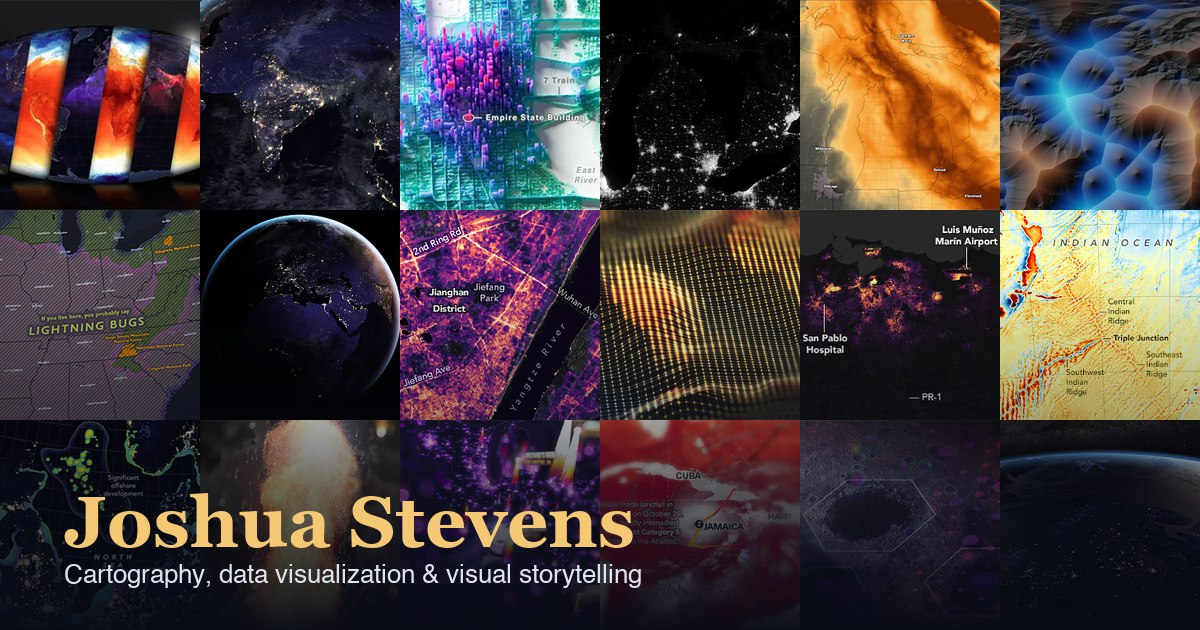
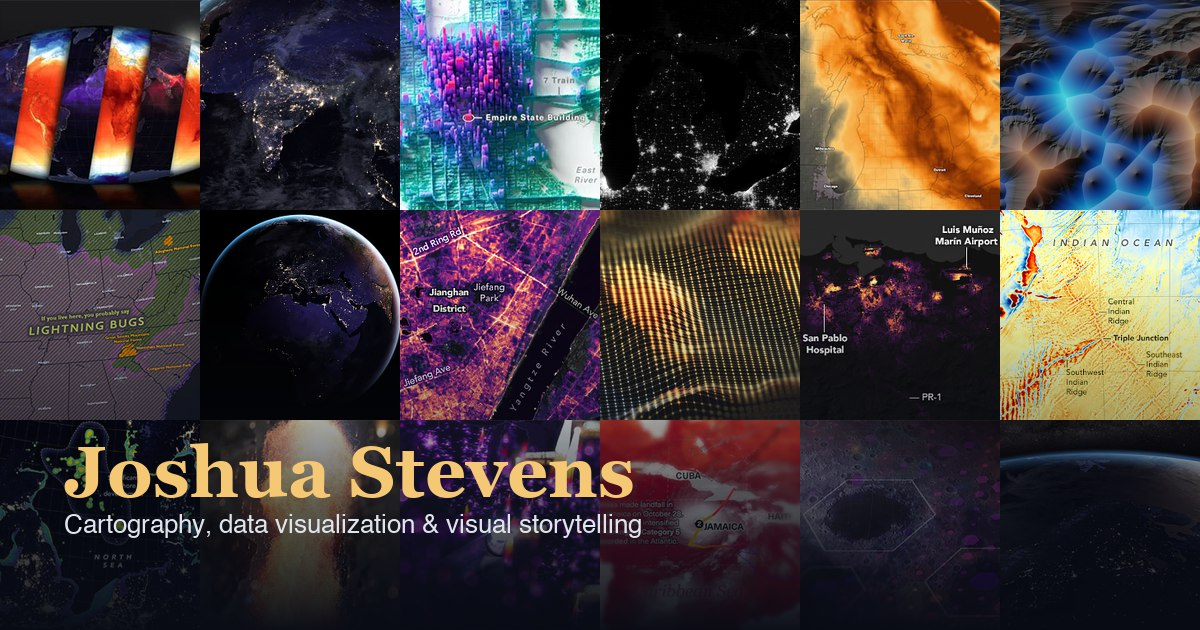
Updated pagination, large bigfoot map

Changed region(s): [[0.0308, 0.6937, 0.555, 0.8746], [0.0617, 0.9048, 0.555, 0.9349]]

diff --git a/visualization/squatch-watch-92-years-of-bigfoot-sightings-in-us-and-canada/index.html b/visualization/squatch-watch-92-years-of-bigfoot-sightings-in-us-and-canada/index.html
@@ -60,6 +60,10 @@
   
 
 <div class="article-mast">
+  <div class="article-mast-media" aria-hidden="true">
+    <img src="/images/js-bigfoot-sightings-large.png" alt="">
+  </div>
+  <div class="article-mast-scrim" aria-hidden="true"></div>
   <div class="container">
     <p class="kicker kicker-light kicker-center">Blog</p>
     <h1>&#39;Squatch Watch: 92 Years of Bigfoot Sightings in the US and Canada</h1><p class="post-date">September 17, 2013</p>
@@ -75,7 +79,7 @@
 <p>After crawling the data and converting it to a more convenient format, I mapped and graphed all 3,313 sightings that were reported from 1921 to 2013:</p>
 <div class="fullImage">
 <img src="/images/SasquatchSightings_Small1.png" />
-<p>Want a larger version? <a href="http://thumbnails.visually.netdna-cdn.com/SquatchWatch92YearsofBigfootSightingsintheUSandCanada_523b7482cc497.png">You got it</a>.</p>
+<p>Want a larger version? <a href="/images/js-bigfoot-sightings-large.png">You got it</a>.</p>
 </div>
 <div class="rightImage">
 <img src="/images/bf_bivariate.png" />

diff --git a/blog/page/2/index.html b/blog/page/2/index.html
@@ -244,10 +244,10 @@ Just how much does a sting from a warrior wasp hurt?
   
   <nav class="pager" aria-label="Blog pagination">
     
-      <a class="btn btn-outline" href="/blog/">&larr; Newer posts</a>
+      <a class="btn btn-outline" href="/blog/page/3/">&larr; Older posts</a>
     
     
-      <a class="btn btn-outline" href="/blog/page/3/">Older posts &rarr;</a>
+      <a class="btn btn-outline" href="/blog/">Newer posts &rarr;</a>
     
   </nav>
   

diff --git a/blog/page/3/index.html b/blog/page/3/index.html
@@ -247,9 +247,9 @@ I presented work on a GeoVISTA project that leverages geovisual analytics and Tw
 
   
   <nav class="pager" aria-label="Blog pagination">
+    <span></span>
     
-      <a class="btn btn-outline" href="/blog/page/2/">&larr; Newer posts</a>
-    
+      <a class="btn btn-outline" href="/blog/page/2/">Newer posts &rarr;</a>
     
   </nav>
   

diff --git a/blog/page/4/index.html b/blog/page/4/index.html
@@ -142,9 +142,9 @@ I presented work on a GeoVISTA project that leverages geovisual analytics and Tw
 
   
   <nav class="pager" aria-label="Blog pagination">
+    <span></span>
     
-      <a class="btn btn-outline" href="/blog/page/3/">&larr; Newer posts</a>
-    
+      <a class="btn btn-outline" href="/blog/page/3/">Newer posts &rarr;</a>
     
   </nav>
   
